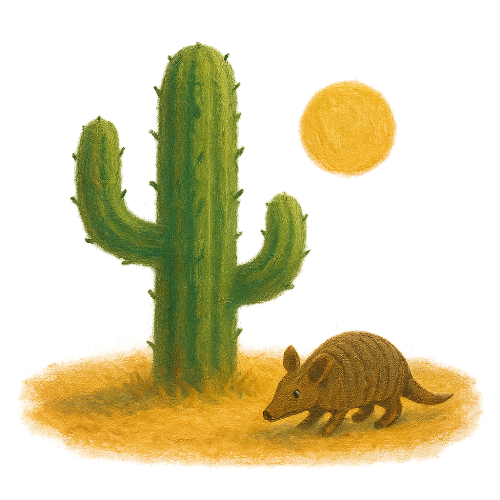
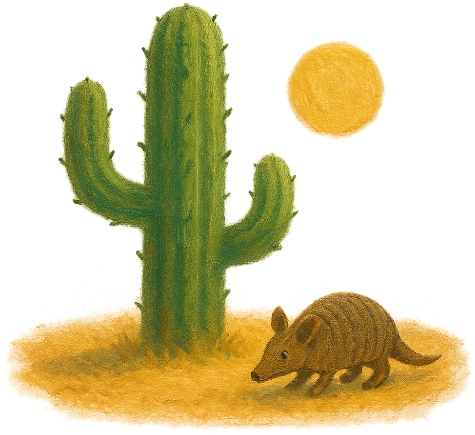
Tighten the home hero and crop its artwork
Most of the space under the header was not padding at all. The source PNG
carried 41px of transparent margin above the cactus, which is 27px of nothing
once it is scaled into its box, so the art appeared to sit low no matter what
the layout did. The file is cropped to its artwork, which lets the lift that
was compensating for it drop from 66px to 20px.

Tealdoc's main column carries 4rem of top padding, which is right for a page
that opens on a heading and too much for one that opens on a hero. Only the
home page has a hero, so only it is cut.

Cropping meant re-encoding, and a first pass that wrote every row unfiltered
came out 100KB larger than the original. Filtering each row adaptively puts it
under the size it started at.

Changed region(s): [[0.0, 0.0, 1.0, 0.9862], [0.5895, 0.0897, 0.8253, 0.3586]]

diff --git a/docs/site.css b/docs/site.css
@@ -54,12 +54,17 @@
      * needs almost none: its controls are already light on a dark scene. */
     --tecs-header-wash: rgba(240, 231, 210, 0.55);
 
-    /* How far the hero art rides up, and the space that move gives back. It is
-     * 20% of the art's 330px height, written in pixels rather than as a
-     * percentage because the two need to stay equal: `top` takes a percentage
-     * of the row's height, while a percentage margin resolves against its
-     * width, so the pair would drift apart at every width but one. */
-    --tecs-hero-lift: 66px;
+    /* How far the hero art rides up, and the space that move gives back.
+     * Written in pixels rather than as a percentage because the two need to
+     * stay equal: `top` takes a percentage of the row's height, while a
+     * percentage margin resolves against its width, so the pair would drift
+     * apart at every width but one.
+     *
+     * It is small now because most of the gap it was compensating for was
+     * inside the artwork: the source had 41px of transparent margin above the
+     * cactus, which is 27px of nothing once it is scaled into its box. The
+     * file is cropped to its artwork, so this only has to do the rest. */
+    --tecs-hero-lift: 20px;
 
     /* One root size, at every width. Pico steps this from 100% to 131.25%
      * across five breakpoints, which makes `rem` a function of the viewport,
@@ -240,8 +245,7 @@
  * entirely: at that width the icons sit where the mountains are. */
 .tealdoc-header {
     background-image:
-        linear-gradient(var(--tecs-header-wash), var(--tecs-header-wash)),
-        url("/images/header-desert.svg");
+        linear-gradient(var(--tecs-header-wash), var(--tecs-header-wash)), url("/images/header-desert.svg");
     background-repeat: no-repeat;
     background-position: right center;
     background-size: auto 100%;
@@ -276,6 +280,14 @@
     }
 }
 
+/* Tealdoc's main column carries 4rem of top padding, which is right for a page
+ * that opens on a heading and too much for one that opens on a hero: it pushed
+ * the headline and the art far enough below the bar to read as a gap rather
+ * than as breathing room. Only the home page has a hero, so only it is cut. */
+main:has(.tealdoc-home-hero) {
+    padding-top: 2rem;
+}
+
 /* Close the gap under the hero. Tealdoc's 4rem plus a 2rem features gap was
  * tuned for art that filled its row. The art now rides 20% higher and leaves
  * its slot behind, so that vacated band is added to both of them and the three
@@ -286,7 +298,7 @@
 }
 
 :root {
-    --tealdoc-hero-features-gap: 0.5rem;
+    --tealdoc-hero-features-gap: 1rem;
 }
 
 .tealdoc-feature-details a,
